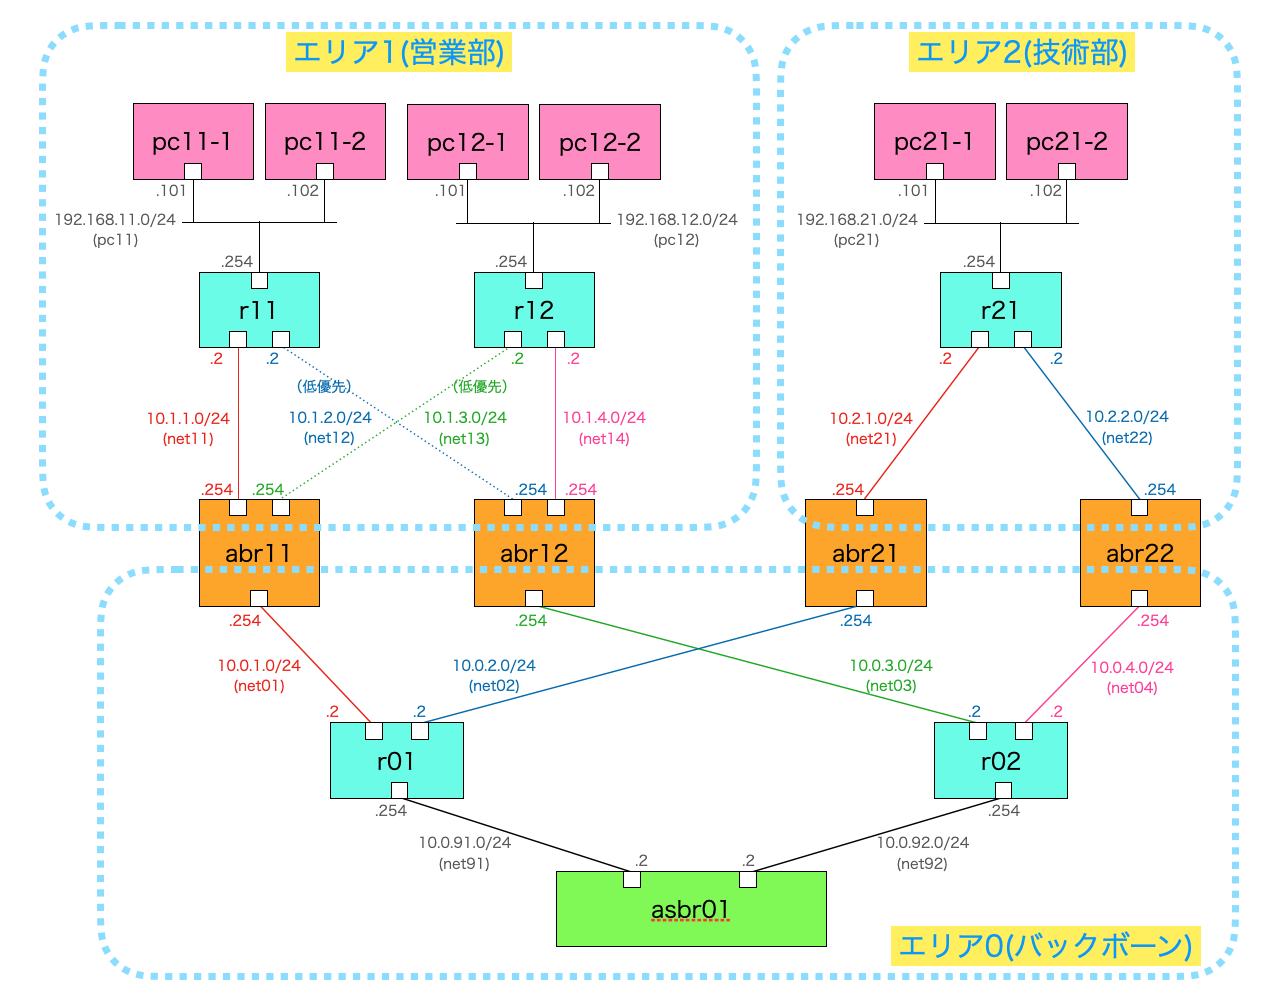
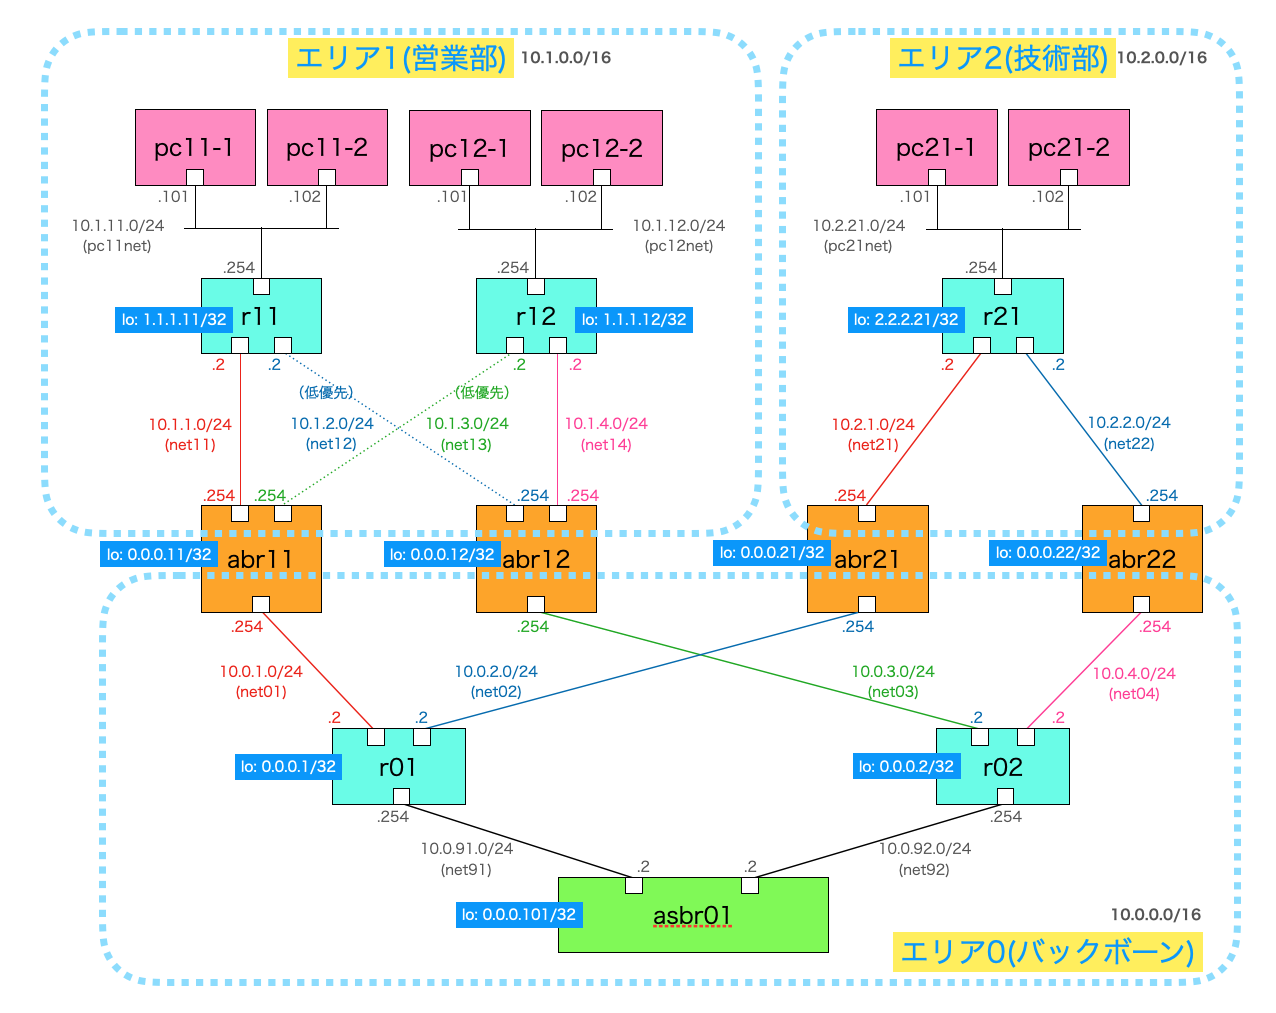
READMEを拡充

diff --git a/ospf02/README.md b/ospf02/README.md
@@ -1,12 +1,37 @@
-# OSPF練習
-PCとルータ(frr)をdockerコンテナで作成し、ルーティング情報をOSPFで動的に作成するデモ。
+# OSPF練習 その2
 
-## ネットワーク構成図
+## 概要
+Linux環境内で複数のPCとルータをdockerコンテナで作成し、OSPFでルーティング情報をOSPFで動的に作成するデモ環境。<br>
+ルータはLinux上で動作するFRR（コンテナ版）を使用し、docker composeコマンド一発でデモ環境を作成する。
+
+## ネットワーク構成
 <img src="images/topology.png">
 
-- 部署ごとにエリアを分ける（営業部⇒エリア1、技術部⇒エリア2）
-- 中継ルータは単一障害点とならないよう冗長化
-- 営業部の斜めの経路は低優先（コスト値=500を設定）
+- 数百人規模の企業ネットワークを想定し、部署ごとにOSPFのエリアを分ける（営業部⇒エリア1、技術部⇒エリア2）
+- エリア1とエリア2はバックボーン(エリア0)でつなげる
+- それぞれの中継ルータは単一障害点とならないよう冗長化
+- 営業部の斜めの経路は低優先ルート（コスト値=500を設定）
+- AS間通信用にASBRも設置（今回は使わない）
+
+### 各PCの設定
+
+- PCを接続するルータをデフォルトGWとして設定
+```
+route add default gw 10.1.11.254
+```
+
+### 各ルータの設定
+
+- ループバックIFにユニークなIPアドレスを設定（今回は使わない）
+- 接続するネットワークアドレスとエリア番号を設定
+```
+# 以下はabr11の設定内容
+router ospf
+ network 10.1.1.0/24 area 1
+ network 10.1.3.0/24 area 1
+ network 10.0.1.0/24 area 0
+ router-info area
+```
 
 ## 起動方法
 ```
@@ -56,7 +81,7 @@ C>* 10.2.21.0/24 is directly connected, eth2, 00:01:54
 pc12-1⇒pc21-1の通信ルートは以下である。
 <img src="images/topology1.png">
 
-
+pc12-1上でtracerouteを実行すると、図の通りにルーティングされることがわかる。
 ```
 $ docker compose exec -it abr12 /bin/sh
 / # traceroute 10.2.21.101
@@ -145,4 +170,74 @@ C>* 10.2.21.0/24 is directly connected, eth2, 00:11:04
 
 ```
 docker compose up --build
+```
+
+## ルータの設定内容
+
+### r11
+```
+frr version 8.4.1_git
+frr defaults traditional
+hostname r11
+no ipv6 forwarding
+service integrated-vtysh-config
+!
+interface lo
+ ip address 1.1.1.11/32
+!
+router ospf
+ network 10.1.11.0/24 area 1
+ network 10.1.1.0/24 area 1
+ network 10.1.2.0/24 area 1
+ router-info area
+!
+line vty
+!
+interface eth1
+ ip ospf cost 500
+!
+```
+
+### abr11
+```
+frr version 8.4.1_git
+frr defaults traditional
+hostname abr11
+no ipv6 forwarding
+service integrated-vtysh-config
+!
+interface lo
+ ip address 0.0.0.11/32
+!
+router ospf
+ network 10.1.1.0/24 area 1
+ network 10.1.3.0/24 area 1
+ network 10.0.1.0/24 area 0
+ router-info area
+!
+line vty
+!
+interface eth2
+ ip ospf cost 500
+!
+```
+
+### asbr01
+```
+frr version 8.4.1_git
+frr defaults traditional
+hostname asbr01
+no ipv6 forwarding
+service integrated-vtysh-config
+!
+interface lo
+ ip address 0.0.0.101/32
+!
+router ospf
+ network 10.0.91.0/24 area 0
+ network 10.0.92.0/24 area 0
+ router-info area
+!
+line vty
+!
 ```
